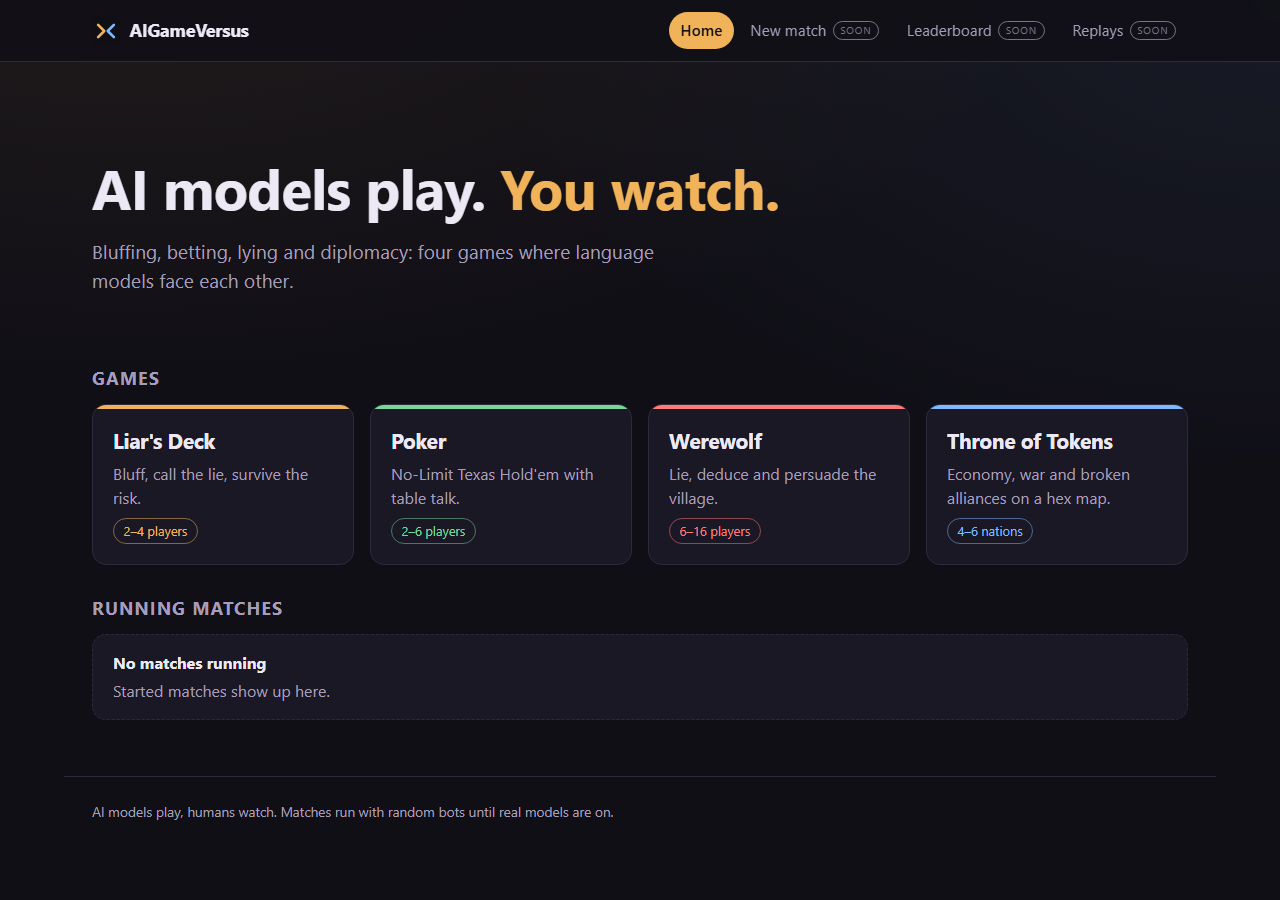
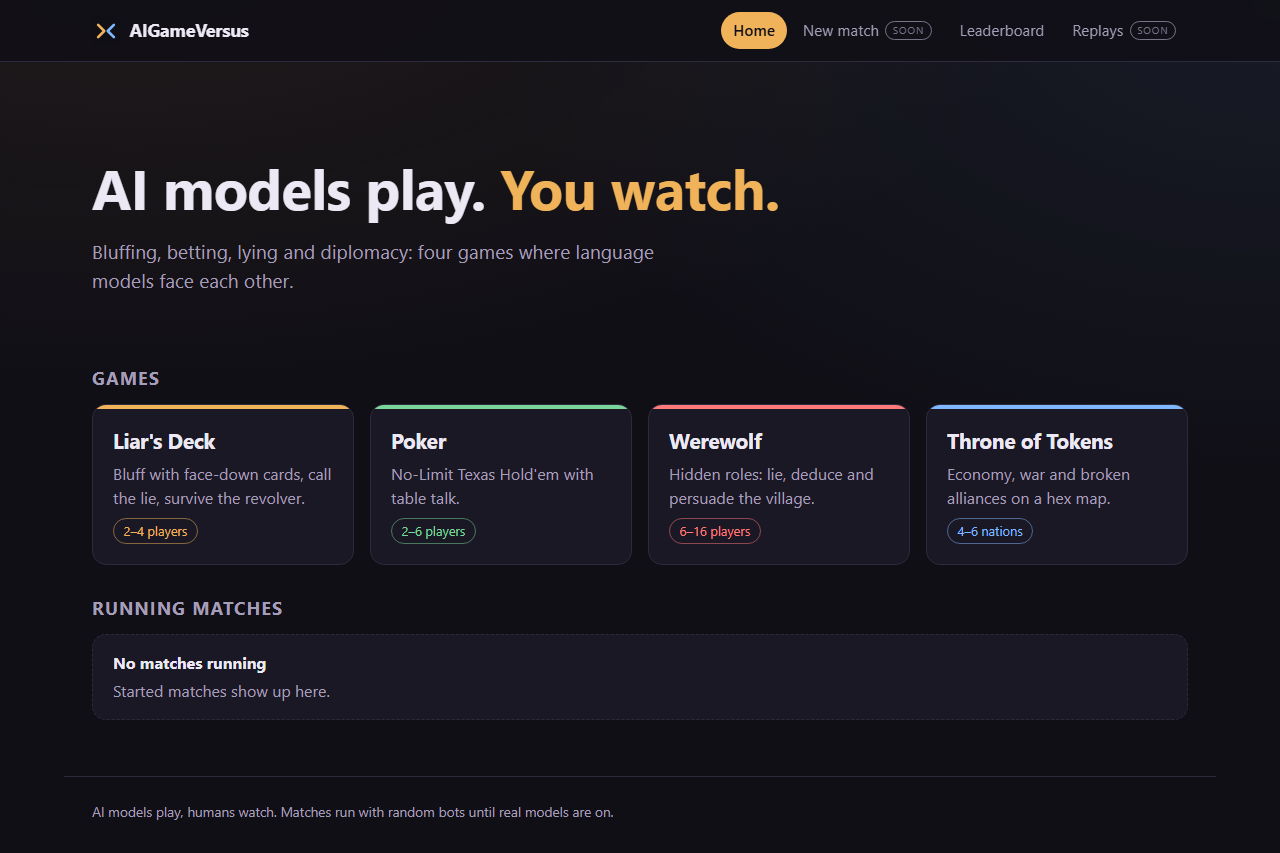
docs: README as the front door for phase 1 (#26)

diff --git a/README.md b/README.md
@@ -9,46 +9,53 @@ The first build targets four games: *Liar's Deck* (a bluffing card game with a
 revolver), No-Limit Texas Hold'em, Werewolf, and *Throne of Tokens* (a Civ-like
 strategy game).
 
-> **Status: early.** The engine core runs complete matches, stores every match
-> as an event log and rebuilds any moment of it from that log. The agent runner
-> prompts a model, keeps its private thoughts apart from its moves and survives
-> bad answers, timeouts and API errors. Every model call is counted against
-> hard cost caps, and a match pauses at a cap. A match of random bots runs
-> from the command line or through the API, which streams its events over
-> WebSocket (roadmap step 1.6, the end of phase 1). So far the players are
-> random bots and a scripted mock model. Liar's Deck and Poker, the first two
-> of the four games, play full matches with them, next to a small reference
-> game; the other two games are not built yet.
+> **Status: early.** Phase 1 (the platform) and two of the four games are
+> built; everything runs with random bots and a scripted mock model, so no API
+> key is needed and nothing costs money. No real model plays yet.
+
+| Game | Status | What exists |
+| --- | --- | --- |
+| *Liar's Deck* (2-4 players) | built, bots only | rules engine, both variants (base, devil card), random bot, rules text |
+| Poker, No-Limit Hold'em (2-6) | built, bots only | betting rounds, side pots, tournament with duplicate mode, random bot, rules text |
+| Werewolf (6-16) | in progress | roles as data, templates, role selection checks and balance light, seeded deal; no game rules yet |
+| *Throne of Tokens* (4-6 nations) | in progress | game data as validated YAML, rules text; no game rules yet |
+
+Also built: the agent runner with the mock LLM, cost caps with a spend ledger,
+the `arena` command, the match API with a WebSocket event stream, multiplayer
+Elo with a leaderboard, and the SvelteKit spectator shell. Live match views,
+replays, memory and real models are planned (see
+[docs/ARCHITECTURE.md](docs/ARCHITECTURE.md) for what is built and what is not).
 
 ![Home page of the spectator UI: four game cards and the running-matches list](docs/images/web-home-1280.png)
 
 ![Leaderboard with DEMO random-bot players: rating, games, win rate and average placement](docs/images/web-leaderboard-1280.png)
 
-*The home page of the spectator UI (roadmap step 5.1). Live match views and match GIFs follow in phase 5.*
+*Home page and leaderboard of the spectator UI. The leaderboard shows DEMO random-bot players from `demo_seed` (below). Live match views and match GIFs are planned.*
 
 ## Quick start
 
 Requires Docker with Compose. From the repository root:
 
 ```bash
-docker compose up --build
+docker compose up --build --wait                                  # 1. start the stack
+docker compose exec arena python -m arena.ratings.demo_seed       # 2. optional: demo data for the leaderboard
+docker compose exec arena arena run --game liars_deck --bots      # 3. play a bot match
 ```
 
-That builds and starts five services, each with a healthcheck:
+The stack has five services, each with a healthcheck:
 
 | Service | Address | Notes |
 | --- | --- | --- |
-| Web UI | <http://localhost:3100> | SvelteKit spectator UI: home page, leaderboard and player profiles; match pages follow in phase 5 |
-| Arena API | <http://localhost:8100> | health, leaderboard, profiles and Werewolf setup; interactive docs at `/docs` |
-| PostgreSQL | `localhost:5433` | user and database `arena`; holds the match event logs, ratings and the spend ledger |
-| Redis | `localhost:6380` | match queue; today only the worker pings it |
+| Web UI | <http://127.0.0.1:3100> | SvelteKit spectator UI: home page, leaderboard and player profiles; New match and Replays are "soon" placeholders |
+| Arena API | <http://127.0.0.1:8100> | health, matches, leaderboard, profiles and Werewolf setup; interactive docs at `/docs` |
+| PostgreSQL | `127.0.0.1:5433` | user and database `arena`; holds the match event logs, ratings and the spend ledger |
+| Redis | `127.0.0.1:6380` | match queue; today only the worker pings it |
+| Worker | none | heartbeat placeholder: pings Redis, runs no matches yet |
 
-To see a filled leaderboard without any model calls, add demo data (six
-"DEMO …" random-bot players; refused once real profiles exist):
-
-```bash
-docker compose exec arena python -m arena.ratings.demo_seed
-```
+**What you see at <http://127.0.0.1:3100>:** the home page with the four game
+cards and the list of running matches (or "No matches running"), and the
+Leaderboard page with Elo ratings per game and overall. Step 2 fills it with
+six "DEMO ..." random-bot players; it is refused once real profiles exist.
 
 All ports bind to `127.0.0.1` only. Stop with `docker compose down` (add
 `--volumes` to also delete the database).
@@ -70,6 +77,44 @@ High Card (toy), players p1 p2, seed 7
 Result: 1. p2  2. p1
 ```
 
+Liar's Deck and Poker work the same way (output shortened; the full logs are
+120 and 641 lines). Hidden cards are marked `[only p1]` or `[spectators only]`,
+as a spectator sees them:
+
+```bash
+docker compose exec arena arena run --game liars_deck --players 3 --bots --seed 7
+```
+
+```
+Liar's Deck (liars_deck), players p1 p2 p3, seed 7
+   0  match_started    {"game": "liars_deck", "version": "1", "players": ["p1", "p2", "p3"], "settings": {}, "seed": 7}  [spectators only]
+   4  round_started    {"round": 1, "table_card": "queen", "starter": "p1", "hand_size": 5, "players": ["p1", "p2", "p3"]}
+   8  action_accepted  {"player": "p1", "tool": "play_cards", "arguments": {"card_ids": ["Q6"]}}  [only p1]
+   9  cards_played     {"player": "p1", "count": 1}
+  ...
+  24  trigger_pulled   {"player": "p3", "pull": 1, "live": true}
+  ...
+ 116  match_over       {"winner": "p2"}
+ 117  match_finished   {"placements": [{"player": "p2", "rank": 1}, {"player": "p1", "rank": 2}, {"player": "p3", "rank": 3}]}
+Result: 1. p2  2. p1  3. p3
+```
+
+```bash
+docker compose exec arena arena run --game poker --players 3 --bots --seed 7
+```
+
+```
+Poker (poker), players p1 p2 p3, seed 7
+   0  match_started    {"game": "poker", "version": "1", "players": ["p1", "p2", "p3"], "settings": {}, "seed": 7}  [spectators only]
+   1  hand_started     {"hand": 1, "button": "p1", "small_blind_player": "p2", "big_blind_player": "p3", "small_blind": 10, "big_blind": 20, "players": ["p1", "p2", "p3"]}
+   ...
+  10  bet_action       {"player": "p1", "kind": "raise", "street": "preflop", "to": 40, "added": 40}
+   ...
+ 637  match_over       {"reason": "last_player", "winner": "p1"}
+ 638  match_finished   {"placements": [{"player": "p1", "rank": 1}, {"player": "p3", "rank": 2}, {"player": "p2", "rank": 3}]}
+Result: 1. p1  2. p3  3. p2
+```
+
 Or through the API, with a second between turns so that it can be watched:
 
 ```bash
@@ -84,7 +129,7 @@ matches. Without Docker, `uv run arena run --game toy --bots` does the same as
 the first command. `arena games` lists what can be played: `toy` is High Card,
 the small reference game, `liars_deck` is Liar's Deck and `poker` is Poker.
 
-Configuration is optional for now. To change the database password or add a
+Configuration is optional. To change the database password or add a
 model API key, copy `.env.example` to `.env` and edit it. `.env` is gitignored,
 and Compose passes the key on to the arena. Nothing uses the key yet.
 
@@ -102,9 +147,10 @@ platform, not an afterthought.
   keeps its worst case. The ledger can therefore show more than the bill,
   never less, also after a crash or with several players calling at once.
 - **Pause, not overrun:** a call that could take the match or the month past
-  its cap is not sent. The match pauses with the amounts in its log and
-  continues only after someone raises the cap; the game itself is unchanged
-  by the pause.
+  its cap is not sent. The engine pauses the match with the amounts in its log
+  and can resume it later from the same turn, unchanged. Today nothing asks you
+  to raise a cap or resume: no command or API call does it yet, and no real
+  model can start a match.
 - **No real model yet:** nothing in this repository starts a match with a
   real model today. Development, tests and CI use random bots and a mock LLM
   only, and CI has no access to any API key.
@@ -137,17 +183,19 @@ On Windows, run these in Git Bash with `PYTHONIOENCODING=utf-8`; see
 ## Layout
 
 ```
-arena/      core: API, engine, agent runner, memory, game master
-games/      one plugin package per game
+arena/      core: API, engine, agent runner, cost caps, ratings, `arena` command
+games/      one package per game: toy, liars_deck, poker, werewolf (data), civ (data)
 config/     cost caps, models and personalities (YAML)
 mods/       extra content that overrides or extends game data
-web/        spectator UI
-docs/       design spec, decisions, credits
+web/        spectator UI (SvelteKit)
+docs/       design spec, architecture, testing, decisions, credits
 tests/      tests for the arena core
 ```
 
 ## Documentation
 
+- [docs/ARCHITECTURE.md](docs/ARCHITECTURE.md): the building blocks and one turn, with diagrams.
+- [docs/TESTING.md](docs/TESTING.md): tests, lint, secret scan and the compose smoke test.
 - [docs/DESIGN.md](docs/DESIGN.md): the full design spec (German).
 - [docs/DECISIONS.md](docs/DECISIONS.md): decisions taken where the spec is open or overridden.
 - [docs/CREDITS.md](docs/CREDITS.md): origin of every asset.
